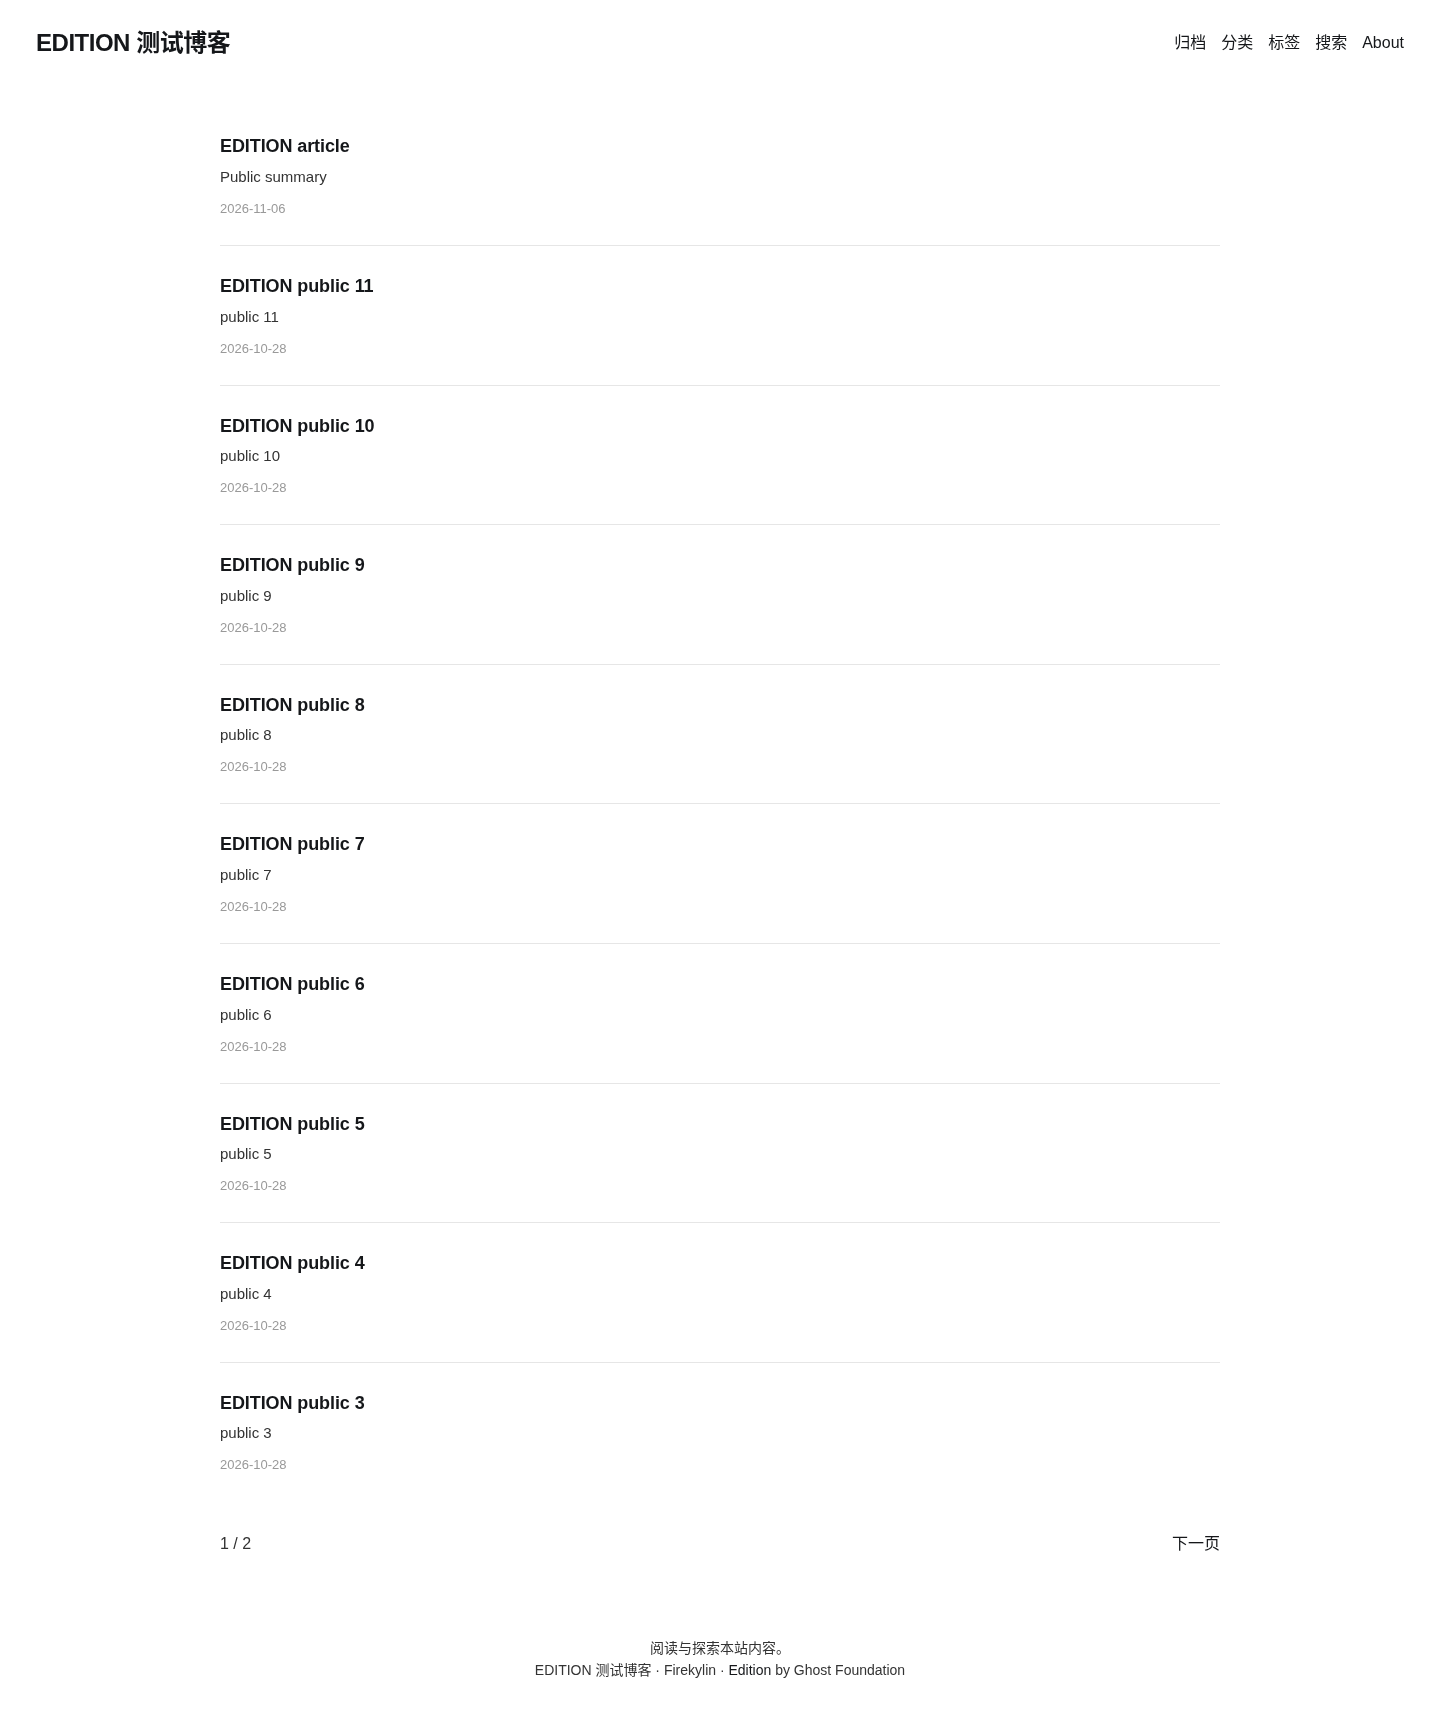
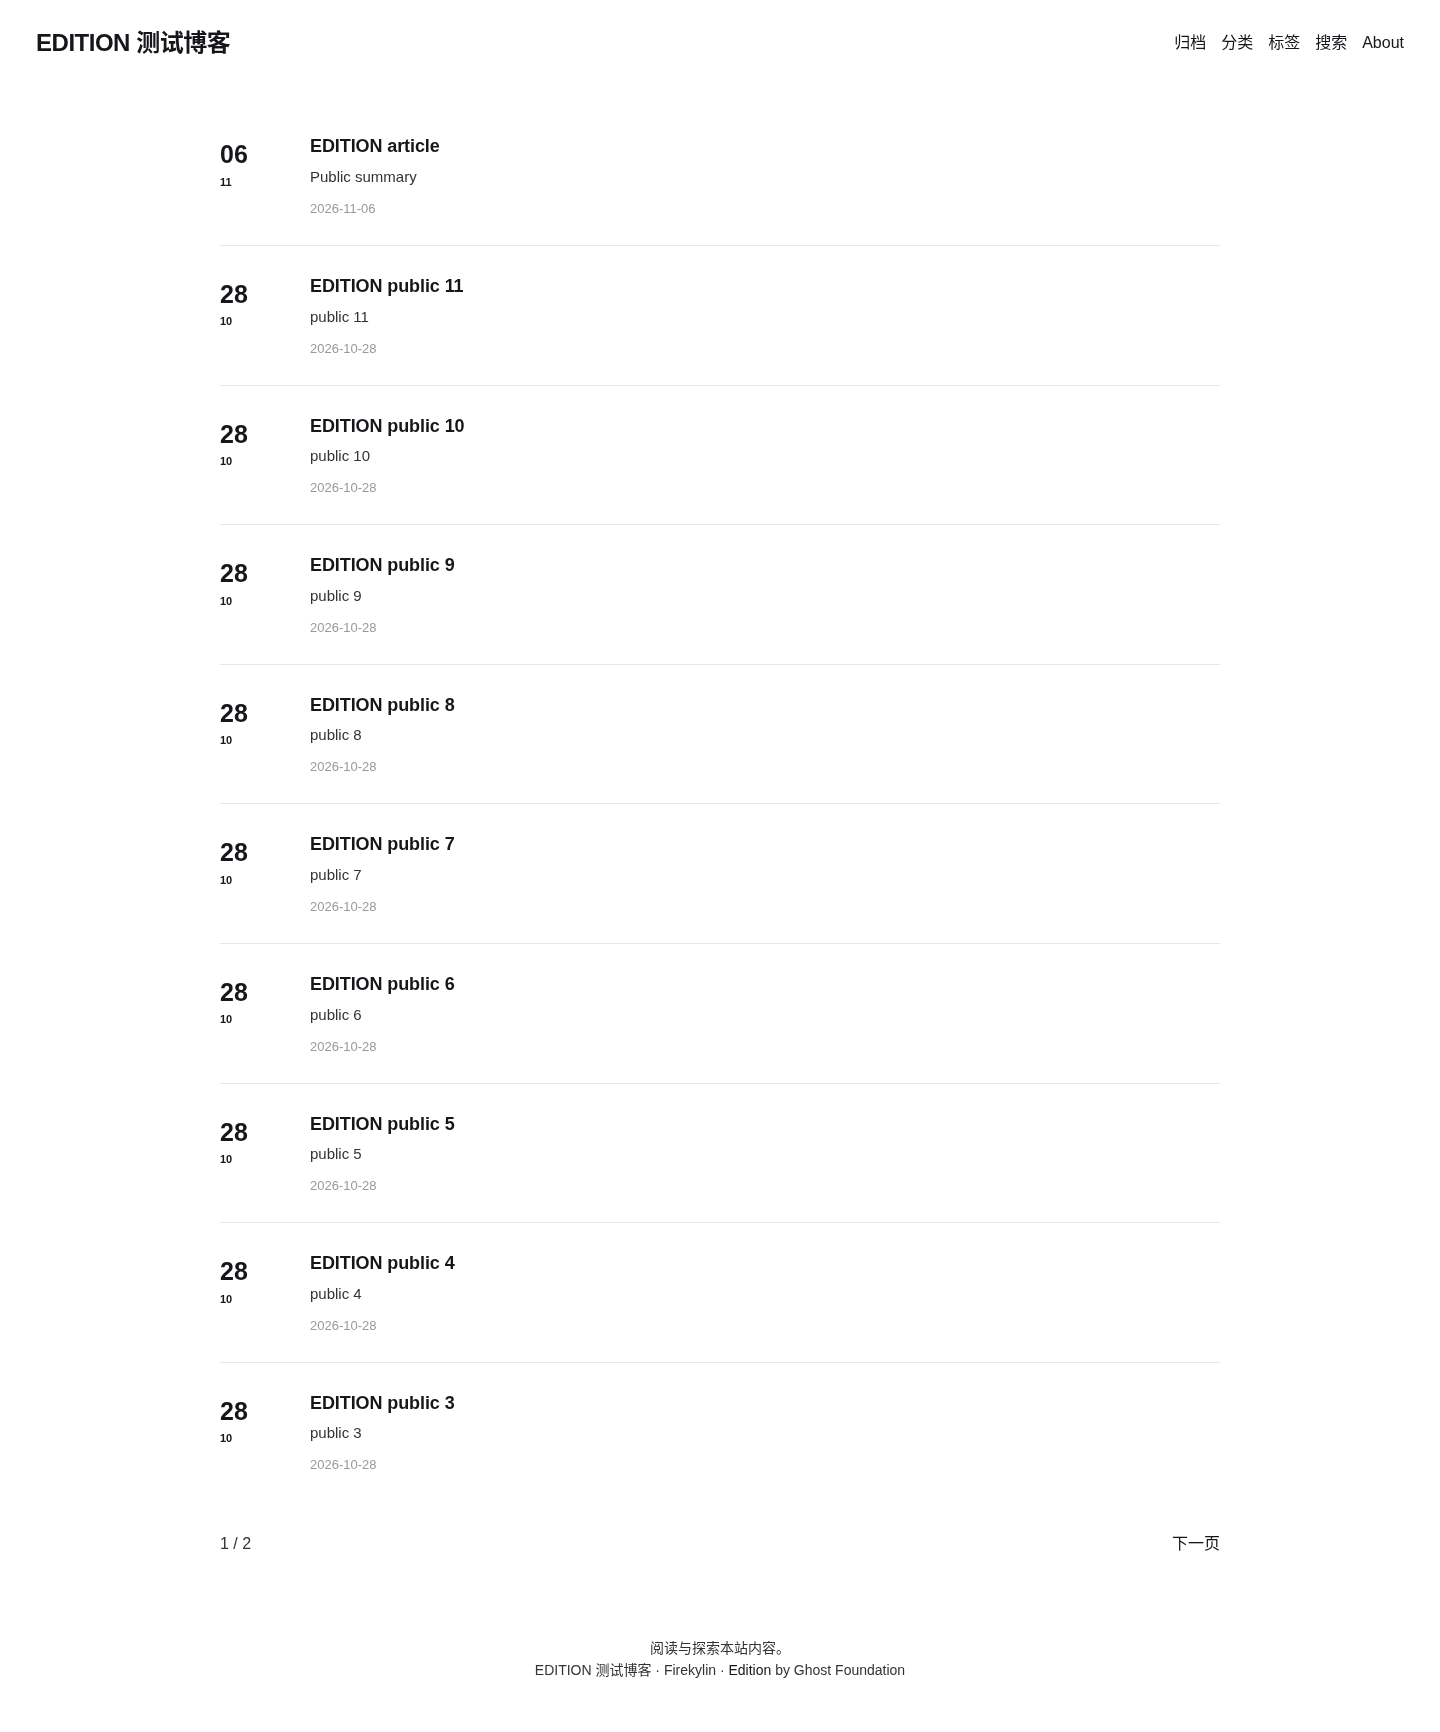
fix: show Edition calendar dates in expanded feed

diff --git a/packages/edition/res/css/theme.css b/packages/edition/res/css/theme.css
@@ -7,3 +7,5 @@
 .prose pre{max-width:100%;overflow-x:auto}.attachment-media img,.attachment-media audio,.attachment-media video{max-width:100%}
 
 .post-feed.text-only{margin-top:2rem}
+
+.post-feed.expanded .feed-calendar{display:block;flex:0 0 55px}.post-feed.expanded .feed{display:flex;gap:2rem}.feed-wrapper{flex:1}.feed-calendar-day{font-size:2.5rem}@media(max-width:575px){.post-feed.expanded .feed{gap:1rem}}
